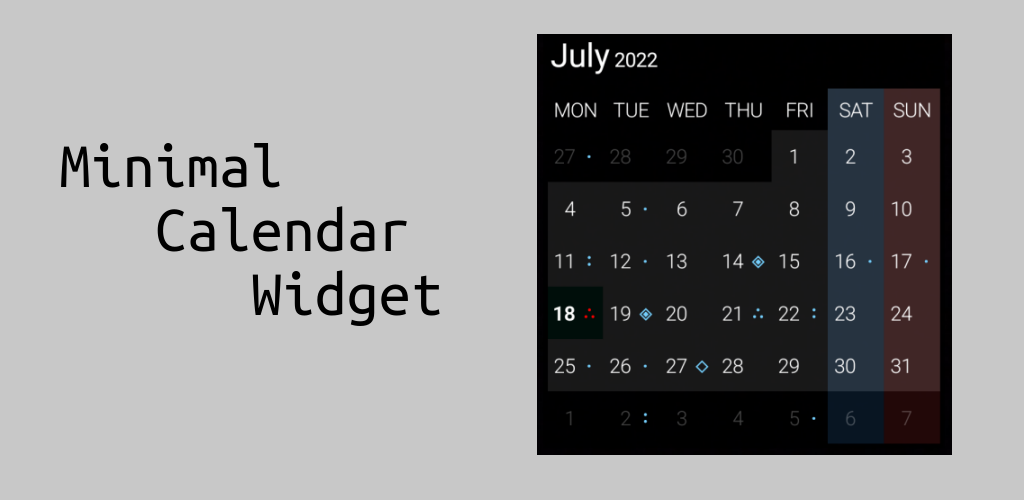
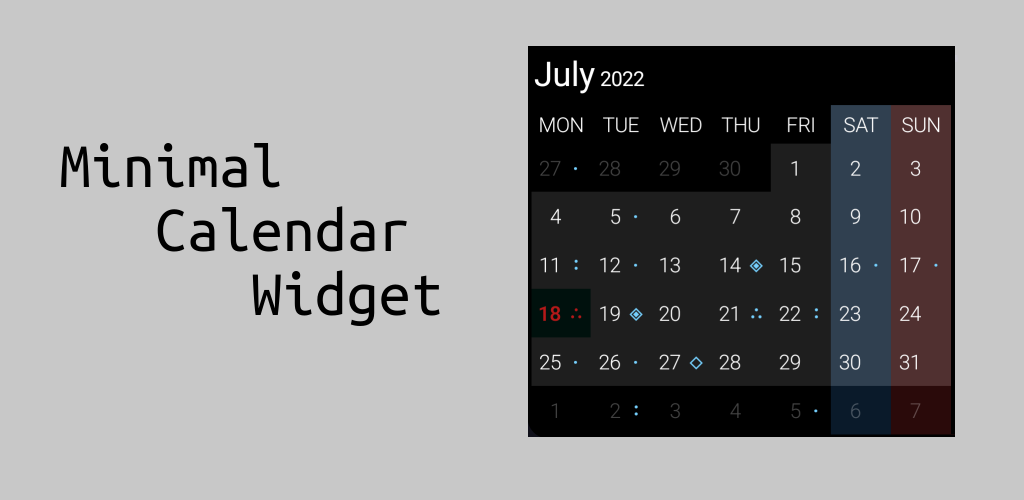
current day text and instances to have the same softer red

diff --git a/app/src/test/kotlin/cat/mvmike/minimalcalendarwidget/domain/configuration/item/ThemeTest.kt b/app/src/test/kotlin/cat/mvmike/minimalcalendarwidget/domain/configuration/item/ThemeTest.kt
@@ -11,8 +11,8 @@ import java.time.DayOfWeek
 
 // MAIN
 
-private const val DARK_THEME_MAIN_TEXT_COLOUR = 2131034228
-private const val LIGHT_THEME_MAIN_TEXT_COLOUR = 2131034229
+private const val DARK_THEME_MAIN_TEXT_COLOUR = 2131034227
+private const val LIGHT_THEME_MAIN_TEXT_COLOUR = 2131034228
 
 private const val CELL_HEADER_VIEW = 2131230790
 private const val CELL_HEADER_LAYOUT = 2131427357
@@ -22,8 +22,8 @@ private const val CELL_HEADER_LAYOUT = 2131427357
 private const val CELL_DAY_VIEW = 2131230789
 private const val CELL_DAY_LAYOUT = 2131427356
 
-private const val DARK_THEME_CELL_TEXT_COLOUR = 2131034230
-private const val LIGHT_THEME_CELL_TEXT_COLOUR = 2131034231
+private const val DARK_THEME_CELL_TEXT_COLOUR = 2131034229
+private const val LIGHT_THEME_CELL_TEXT_COLOUR = 2131034230
 
 private const val SATURDAY_IN_MONTH_DARK_THEME_CELL_BACKGROUND = 2131034149
 private const val SUNDAY_IN_MONTH_DARK_THEME_CELL_BACKGROUND = 2131034155
@@ -221,7 +221,7 @@ internal class ThemeTest : BaseTest() {
             Cell(
                 id = CELL_DAY_VIEW,
                 layout = CELL_DAY_LAYOUT,
-                textColour = DARK_THEME_MAIN_TEXT_COLOUR,
+                textColour = TEXT_COLOUR_TODAY_ID,
                 background = TODAY_DARK_THEME_CELL_BACKGROUND
             )
         ),
@@ -233,7 +233,7 @@ internal class ThemeTest : BaseTest() {
             Cell(
                 id = CELL_DAY_VIEW,
                 layout = CELL_DAY_LAYOUT,
-                textColour = DARK_THEME_MAIN_TEXT_COLOUR,
+                textColour = TEXT_COLOUR_TODAY_ID,
                 background = TODAY_DARK_THEME_CELL_BACKGROUND
             )
         ),
@@ -245,7 +245,7 @@ internal class ThemeTest : BaseTest() {
             Cell(
                 id = CELL_DAY_VIEW,
                 layout = CELL_DAY_LAYOUT,
-                textColour = DARK_THEME_MAIN_TEXT_COLOUR,
+                textColour = TEXT_COLOUR_TODAY_ID,
                 background = TODAY_DARK_THEME_CELL_BACKGROUND
             )
         ),
@@ -257,7 +257,7 @@ internal class ThemeTest : BaseTest() {
             Cell(
                 id = CELL_DAY_VIEW,
                 layout = CELL_DAY_LAYOUT,
-                textColour = DARK_THEME_MAIN_TEXT_COLOUR,
+                textColour = TEXT_COLOUR_TODAY_ID,
                 background = TODAY_DARK_THEME_CELL_BACKGROUND
             )
         ),
@@ -269,7 +269,7 @@ internal class ThemeTest : BaseTest() {
             Cell(
                 id = CELL_DAY_VIEW,
                 layout = CELL_DAY_LAYOUT,
-                textColour = DARK_THEME_MAIN_TEXT_COLOUR,
+                textColour = TEXT_COLOUR_TODAY_ID,
                 background = TODAY_DARK_THEME_CELL_BACKGROUND
             )
         ),
@@ -281,7 +281,7 @@ internal class ThemeTest : BaseTest() {
             Cell(
                 id = CELL_DAY_VIEW,
                 layout = CELL_DAY_LAYOUT,
-                textColour = DARK_THEME_MAIN_TEXT_COLOUR,
+                textColour = TEXT_COLOUR_TODAY_ID,
                 background = 2131034151
             )
         ),
@@ -293,7 +293,7 @@ internal class ThemeTest : BaseTest() {
             Cell(
                 id = CELL_DAY_VIEW,
                 layout = CELL_DAY_LAYOUT,
-                textColour = DARK_THEME_MAIN_TEXT_COLOUR,
+                textColour = TEXT_COLOUR_TODAY_ID,
                 background = 2131034157
             )
         ),
@@ -473,7 +473,7 @@ internal class ThemeTest : BaseTest() {
             Cell(
                 id = CELL_DAY_VIEW,
                 layout = CELL_DAY_LAYOUT,
-                textColour = LIGHT_THEME_MAIN_TEXT_COLOUR,
+                textColour = TEXT_COLOUR_TODAY_ID,
                 background = TODAY_LIGHT_THEME_CELL_BACKGROUND
             )
         ),
@@ -485,7 +485,7 @@ internal class ThemeTest : BaseTest() {
             Cell(
                 id = CELL_DAY_VIEW,
                 layout = CELL_DAY_LAYOUT,
-                textColour = LIGHT_THEME_MAIN_TEXT_COLOUR,
+                textColour = TEXT_COLOUR_TODAY_ID,
                 background = TODAY_LIGHT_THEME_CELL_BACKGROUND
             )
         ),
@@ -497,7 +497,7 @@ internal class ThemeTest : BaseTest() {
             Cell(
                 id = CELL_DAY_VIEW,
                 layout = CELL_DAY_LAYOUT,
-                textColour = LIGHT_THEME_MAIN_TEXT_COLOUR,
+                textColour = TEXT_COLOUR_TODAY_ID,
                 background = TODAY_LIGHT_THEME_CELL_BACKGROUND
             )
         ),
@@ -509,7 +509,7 @@ internal class ThemeTest : BaseTest() {
             Cell(
                 id = CELL_DAY_VIEW,
                 layout = CELL_DAY_LAYOUT,
-                textColour = LIGHT_THEME_MAIN_TEXT_COLOUR,
+                textColour = TEXT_COLOUR_TODAY_ID,
                 background = TODAY_LIGHT_THEME_CELL_BACKGROUND
             )
         ),
@@ -521,7 +521,7 @@ internal class ThemeTest : BaseTest() {
             Cell(
                 id = CELL_DAY_VIEW,
                 layout = CELL_DAY_LAYOUT,
-                textColour = LIGHT_THEME_MAIN_TEXT_COLOUR,
+                textColour = TEXT_COLOUR_TODAY_ID,
                 background = TODAY_LIGHT_THEME_CELL_BACKGROUND
             )
         ),
@@ -533,7 +533,7 @@ internal class ThemeTest : BaseTest() {
             Cell(
                 id = CELL_DAY_VIEW,
                 layout = CELL_DAY_LAYOUT,
-                textColour = LIGHT_THEME_MAIN_TEXT_COLOUR,
+                textColour = TEXT_COLOUR_TODAY_ID,
                 background = 2131034152
             )
         ),
@@ -545,7 +545,7 @@ internal class ThemeTest : BaseTest() {
             Cell(
                 id = CELL_DAY_VIEW,
                 layout = CELL_DAY_LAYOUT,
-                textColour = LIGHT_THEME_MAIN_TEXT_COLOUR,
+                textColour = TEXT_COLOUR_TODAY_ID,
                 background = 2131034158
             )
         ),

diff --git a/app/src/main/kotlin/cat/mvmike/minimalcalendarwidget/infrastructure/resolver/GraphicResolver.kt b/app/src/main/kotlin/cat/mvmike/minimalcalendarwidget/infrastructure/resolver/GraphicResolver.kt
@@ -87,18 +87,18 @@ object GraphicResolver {
         viewId: Int,
         dayOfMonth: String,
         dayOfMonthColour: Int,
+        dayOfMonthRelativeSize: Float,
         dayOfMonthInBold: Boolean,
         instancesSymbol: Char,
         instancesSymbolColour: Int,
         instancesRelativeSize: Float,
-        dayBackgroundColour: Int?,
-        textRelativeSize: Float
+        dayBackgroundColour: Int?
     ) {
         val dayOfMonthSpSt = SpannableString(dayOfMonth).apply {
             if (dayOfMonthInBold) {
                 setSpan(StyleSpan(BOLD), 0, length, SPAN_EXCLUSIVE_EXCLUSIVE)
             }
-            setSpan(RelativeSizeSpan(textRelativeSize), 0, length, SPAN_EXCLUSIVE_EXCLUSIVE)
+            setSpan(RelativeSizeSpan(dayOfMonthRelativeSize), 0, length, SPAN_EXCLUSIVE_EXCLUSIVE)
             instancesSymbolRemoteView?.let {
                 setSpan(Standard(Alignment.ALIGN_OPPOSITE), 0, length, SPAN_EXCLUSIVE_EXCLUSIVE)
             }
@@ -112,7 +112,12 @@ object GraphicResolver {
             val instancesSymbolSpSt = SpannableString("$instancesSymbol").apply {
                 setSpan(StyleSpan(BOLD), 0, length, SPAN_EXCLUSIVE_EXCLUSIVE)
                 setSpan(ForegroundColorSpan(instancesSymbolColour), 0, length, SPAN_EXCLUSIVE_EXCLUSIVE)
-                setSpan(RelativeSizeSpan(instancesRelativeSize * textRelativeSize), 0, length, SPAN_EXCLUSIVE_EXCLUSIVE)
+                setSpan(
+                    RelativeSizeSpan(instancesRelativeSize * dayOfMonthRelativeSize),
+                    0,
+                    length,
+                    SPAN_EXCLUSIVE_EXCLUSIVE
+                )
             }
             it.setTextViewText(viewId, instancesSymbolSpSt)
             dayBackgroundColour?.setAsBackground(it, viewId)

diff --git a/app/src/test/kotlin/cat/mvmike/minimalcalendarwidget/domain/component/DaysServiceTest.kt b/app/src/test/kotlin/cat/mvmike/minimalcalendarwidget/domain/component/DaysServiceTest.kt
@@ -95,12 +95,12 @@ internal class DaysServiceTest : BaseTest() {
                 viewId = any(),
                 dayOfMonth = any(),
                 dayOfMonthColour = any(),
+                dayOfMonthRelativeSize = any(),
                 dayOfMonthInBold = any(),
                 instancesSymbol = any(),
                 instancesSymbolColour = any(),
                 instancesRelativeSize = any(),
-                dayBackgroundColour = any(),
-                textRelativeSize = any()
+                dayBackgroundColour = any()
             )
         }
         justRun {
@@ -167,12 +167,12 @@ internal class DaysServiceTest : BaseTest() {
                     viewId = cellDay.id,
                     dayOfMonth = dayUseCaseTest.dayOfMonth,
                     dayOfMonthColour = cellDay.textColour,
+                    dayOfMonthRelativeSize = testProperties.textSize.relativeValue,
                     dayOfMonthInBold = dayUseCaseTest.isToday,
                     instancesSymbol = dayUseCaseTest.instancesSymbol,
                     instancesSymbolColour = instancesColourId,
                     instancesRelativeSize = testProperties.instancesSymbolSet.relativeSize,
-                    dayBackgroundColour = cellDay.background?.let { expectedBackground },
-                    textRelativeSize = testProperties.textSize.relativeValue
+                    dayBackgroundColour = cellDay.background?.let { expectedBackground }
                 )
                 ActionableView.CellDay.addListener(
                     context = context,

diff --git a/app/src/test/kotlin/cat/mvmike/minimalcalendarwidget/domain/configuration/item/ColourTest.kt b/app/src/test/kotlin/cat/mvmike/minimalcalendarwidget/domain/configuration/item/ColourTest.kt
@@ -8,15 +8,15 @@ import org.junit.jupiter.params.ParameterizedTest
 import org.junit.jupiter.params.provider.CsvSource
 import org.junit.jupiter.params.provider.EnumSource
 
-internal const val INSTANCES_COLOUR_TODAY_ID = 2131034190
+internal const val TEXT_COLOUR_TODAY_ID = 2131034231
 
 internal const val CYAN_INSTANCES_COLOUR_ID = 2131034185
 private const val MINT_INSTANCES_COLOUR_ID = 2131034187
 private const val BLUE_INSTANCES_COLOUR_ID = 2131034184
 private const val GREEN_INSTANCES_COLOUR_ID = 2131034186
-private const val YELLOW_INSTANCES_COLOUR_ID = 2131034192
+private const val YELLOW_INSTANCES_COLOUR_ID = 2131034191
 private const val BLACK_INSTANCES_COLOUR_ID = 2131034183
-private const val WHITE_INSTANCES_COLOUR_ID = 2131034191
+private const val WHITE_INSTANCES_COLOUR_ID = 2131034190
 
 private const val SYSTEM_ACCENT_DARK_THEME_INSTANCES_COLOUR_ID = 2131034189
 private const val SYSTEM_ACCENT_LIGHT_THEME_INSTANCES_COLOUR_ID = 2131034188
@@ -28,7 +28,7 @@ internal class ColourTest : BaseTest() {
     fun getInstancesColour_shouldAlwaysReturnTheSameValueWhenIsToday(colour: Colour) {
         Theme.values().forEach {
             val todayInstancesColour = colour.getInstancesColour(true, it)
-            assertThat(todayInstancesColour).isEqualTo(INSTANCES_COLOUR_TODAY_ID)
+            assertThat(todayInstancesColour).isEqualTo(TEXT_COLOUR_TODAY_ID)
         }
     }
 

diff --git a/app/src/main/kotlin/cat/mvmike/minimalcalendarwidget/domain/configuration/item/Theme.kt b/app/src/main/kotlin/cat/mvmike/minimalcalendarwidget/domain/configuration/item/Theme.kt
@@ -44,7 +44,7 @@ enum class Theme(
         today = CellPack(
             viewId = R.id.cell_day,
             layout = R.layout.cell_day,
-            textColour = R.color.text_colour_dark,
+            textColour = R.color.text_colour_today,
             weekdayBackground = R.color.background_today_dark,
             saturdayBackground = R.color.background_saturday_today_dark,
             sundayBackground = R.color.background_sunday_today_dark
@@ -79,7 +79,7 @@ enum class Theme(
         today = CellPack(
             viewId = R.id.cell_day,
             layout = R.layout.cell_day,
-            textColour = R.color.text_colour_light,
+            textColour = R.color.text_colour_today,
             weekdayBackground = R.color.background_today_light,
             saturdayBackground = R.color.background_saturday_today_light,
             sundayBackground = R.color.background_sunday_today_light

diff --git a/app/src/main/kotlin/cat/mvmike/minimalcalendarwidget/domain/component/DaysService.kt b/app/src/main/kotlin/cat/mvmike/minimalcalendarwidget/domain/component/DaysService.kt
@@ -95,12 +95,12 @@ object DaysService {
                     viewId = dayCell.id,
                     dayOfMonth = currentDay.getDayOfMonthString(),
                     dayOfMonthColour = dayCell.textColour,
+                    dayOfMonthRelativeSize = textSize.relativeValue,
                     dayOfMonthInBold = isToday,
                     instancesSymbol = instancesSymbol,
                     instancesSymbolColour = dayInstancesColour,
                     instancesRelativeSize = instancesSymbolSet.relativeSize,
-                    dayBackgroundColour = backgroundWithTransparency,
-                    textRelativeSize = textSize.relativeValue
+                    dayBackgroundColour = backgroundWithTransparency
                 )
                 CellDay.addListener(
                     context = context,

diff --git a/app/src/main/kotlin/cat/mvmike/minimalcalendarwidget/domain/configuration/item/Colour.kt b/app/src/main/kotlin/cat/mvmike/minimalcalendarwidget/domain/configuration/item/Colour.kt
@@ -61,7 +61,7 @@ enum class Colour(
         isToday: Boolean,
         widgetTheme: Theme
     ) = when {
-        isToday -> R.color.instances_today
+        isToday -> R.color.text_colour_today
         else -> when (widgetTheme) {
             Theme.DARK -> darkThemeHexColour
             Theme.LIGHT -> lightThemeHexColour
